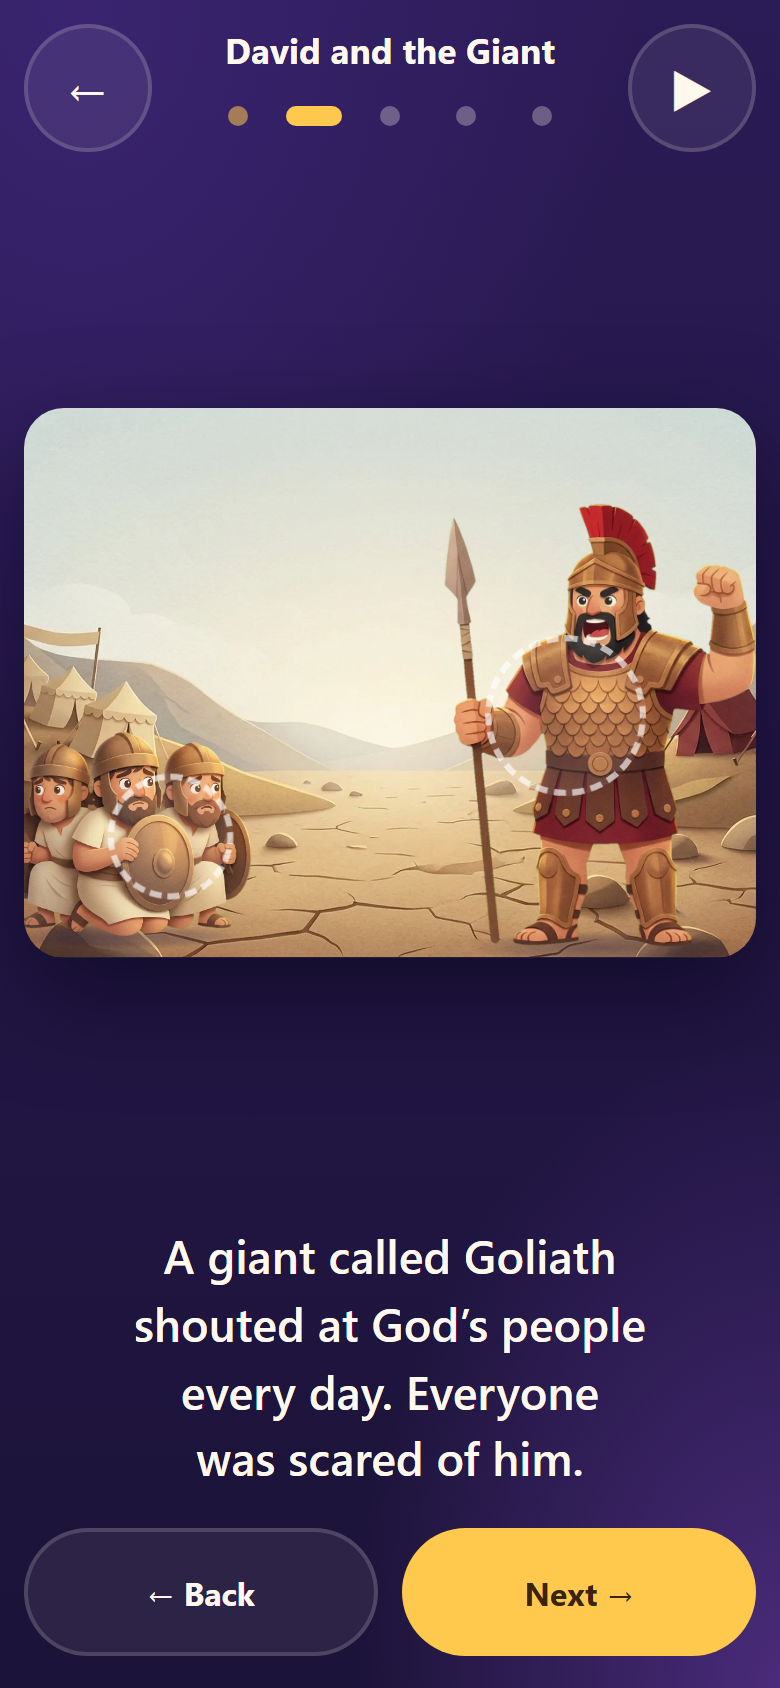
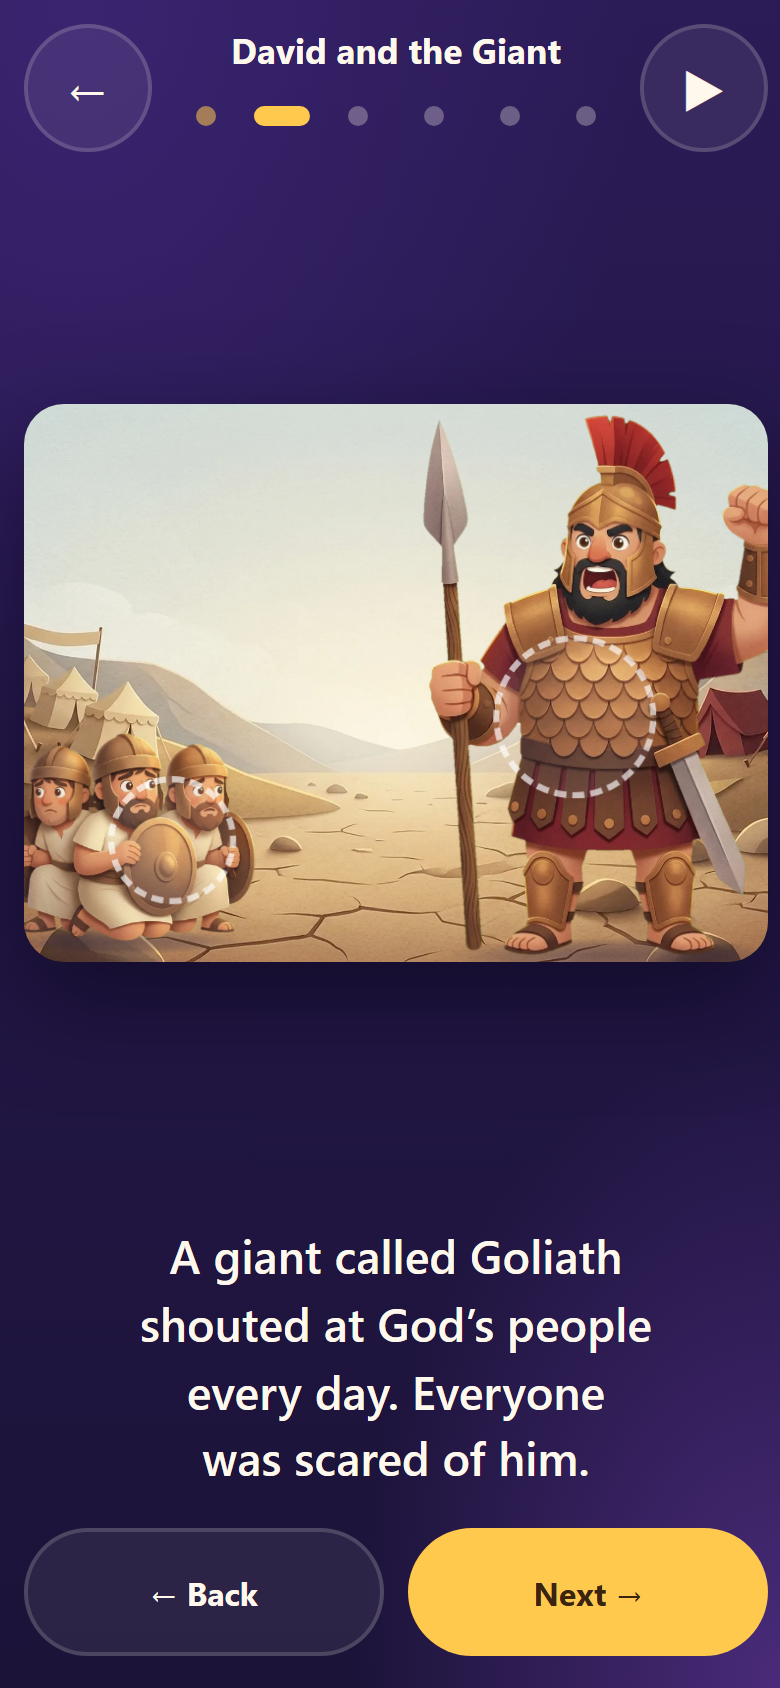
Restore blink, flipbook and tail-flick rules lost to a bad CSS edit; move the flock onto the meadow
A slice-and-replace on motion.css matched the old vector scene's stone-fly
keyframe first and cut everything up to the Calm block, so 8273eb5 shipped
without blinks, wing flaps or tail flicks. The stylesheet is restored from
d087bd1 with the strike beat placed over the old stone block. The shepherd's
sheep now graze the meadow instead of the stream, the flying stone is larger,
and the strike text matches the fallen pose.

diff --git a/src/scenes/david.tsx b/src/scenes/david.tsx
@@ -135,14 +135,16 @@ export function ShepherdBoy({ found }: SceneArtProps) {
       <Bird up={{ src: redbirdUp, w: L["redbird-up"].w, h: L["redbird-up"].h }} down={{ src: redbirdDown, w: L["redbird-down"].w, h: L["redbird-down"].h }} upEye={[185, 95]} downEye={[215, 50]} x={620} y={230} size={0.22} motion="a-flutter" delay={-3} />
       <Bird up={{ src: goldfinchUp, w: L["goldfinch-up"].w, h: L["goldfinch-up"].h }} down={{ src: goldfinchDown, w: L["goldfinch-down"].w, h: L["goldfinch-down"].h }} upEye={[188, 100]} downEye={[245, 45]} x={330} y={120} size={0.2} motion="a-flutter" delay={-7} flip />
 
-      {/* the flock, far to near */}
-      {sheep(880, 560, 0.16, true, "a-breathe-slow")}
-      {sheep(760, 570, 0.18, false, "a-breathe")}
-      {sheep(820, 612, 0.2, true, "a-breathe-slow")}
-      {sheep(640, 596, 0.24, false, "a-breathe")}
-      {sheep(560, 618, 0.22, true, "a-breathe-slow")}
-      <SoftShadow x={470} y={600} rx={60} ry={10} opacity={0.4} />
-      <Layer src={shepherdLamb} w={L.lamb.w} h={L.lamb.h} x={470} y={600} scale={0.3} className="a-breathe-slow" />
+      {/* the flock grazes the meadow between David and the stream, far to near */}
+      {sheep(600, 528, 0.13, true, "a-breathe-slow")}
+      {sheep(520, 536, 0.14, false, "a-breathe")}
+      {sheep(680, 548, 0.15, true, "a-breathe-slow")}
+      {sheep(430, 556, 0.16, false, "a-breathe")}
+      {sheep(590, 578, 0.19, true, "a-breathe-slow")}
+      {sheep(660, 604, 0.22, false, "a-breathe")}
+      {sheep(540, 616, 0.22, true, "a-breathe-slow")}
+      <SoftShadow x={450} y={604} rx={60} ry={10} opacity={0.4} />
+      <Layer src={shepherdLamb} w={L.lamb.w} h={L.lamb.h} x={450} y={604} scale={0.3} className="a-breathe-slow" />
 
       <SoftShadow x={300} y={596} rx={70} ry={12} opacity={0.4} />
       <Layer src={shepherdDavid} w={L["david-staff"].w} h={L["david-staff"].h} x={300} y={596} scale={0.38} className="a-breathe">
@@ -274,8 +276,9 @@ export function TheStrike({ found }: SceneArtProps) {
       {/* the stone: waits at the sling, flies to the forehead, vanishes; hidden at rest */}
       <g transform="translate(280 300)">
         <g className="a-stone-fly" opacity="0">
-          <circle r="9" fill="#9a9aa0" />
-          <circle r="7" fill="#c9c9cf" cx="-2" cy="-2" />
+          <circle r="14" fill="#5e5c66" />
+          <circle r="10" fill="#8f8d97" cx="-3" cy="-3" />
+          <circle r="4" fill="#c9c7d0" cx="-6" cy="-6" />
         </g>
       </g>
 

diff --git a/src/styles/motion.css b/src/styles/motion.css
@@ -421,6 +421,12 @@ svg [class*=" a-"] {
   transform-origin: 50% 100%;
 }
 
+/*
+ * One-shot story beat for the "strike" scene. Attributes hold the AFTER
+ * state (stone hidden, standing giant hidden, fallen giant shown) so Calm
+ * mode shows the outcome; the animations replay the beat once when motion
+ * is on: the stone waits, flies, the giant staggers, then the poses crossfade.
+ */
 @keyframes stone-fly {
   0%,
   55% {
@@ -479,6 +485,92 @@ svg [class*=" a-"] {
 }
 .a-land-in {
   animation: land-in 6s linear both;
+}
+
+/*
+ * Eyelids. Drawn with opacity="0" so eyes rest open; the lid only appears for
+ * a moment near the end of each cycle. Calm mode drops the animation and the
+ * attribute value keeps the eyes open.
+ */
+@keyframes blink {
+  0%,
+  93%,
+  100% {
+    opacity: 0;
+  }
+  95%,
+  97% {
+    opacity: 1;
+  }
+}
+.a-blink {
+  animation: blink 5.2s linear infinite;
+}
+
+/*
+ * Two-frame flipbook for raster wings: frame A is drawn with opacity="1" and
+ * frame B with opacity="0", so Calm mode shows a single clean pose. Playing,
+ * the two swap in hard steps.
+ */
+@keyframes frame-a {
+  0%,
+  49% {
+    opacity: 1;
+  }
+  50%,
+  100% {
+    opacity: 0;
+  }
+}
+@keyframes frame-b {
+  0%,
+  49% {
+    opacity: 0;
+  }
+  50%,
+  100% {
+    opacity: 1;
+  }
+}
+.a-frame-a {
+  animation: frame-a 0.36s steps(1, end) infinite;
+}
+.a-frame-b {
+  animation: frame-b 0.36s steps(1, end) infinite;
+}
+
+/*
+ * Tail flick. Still for most of a nine-second cycle, then two quick swishes.
+ * The tail is its own raster layer whose root sits at a corner of its box, so
+ * one class per root corner keeps the pivot in this file (rule 2). Calm mode
+ * drops the animation and the tail rests exactly where it was drawn.
+ */
+@keyframes tail-flick {
+  0%,
+  78%,
+  100% {
+    transform: rotate(0deg);
+  }
+  82% {
+    transform: rotate(-9deg);
+  }
+  86% {
+    transform: rotate(7deg);
+  }
+  90% {
+    transform: rotate(-6deg);
+  }
+  94% {
+    transform: rotate(3deg);
+  }
+}
+.a-tail-flick-tr {
+  animation: tail-flick 9s ease-in-out infinite;
+  transform-origin: 100% 0%;
+}
+.a-tail-flick-tl {
+  animation: tail-flick 9s ease-in-out infinite;
+  transform-origin: 0% 0%;
 }
 
 /*

diff --git a/src/data/stories/david.ts b/src/data/stories/david.ts
@@ -158,7 +158,7 @@ export const david: Story = {
       text: {
         little:
           "David let the stone fly. WHAM! It hit Goliath right on the forehead, and down he went.",
-        big: "Goliath laughed at the boy with the stick. David answered that he came in the name of the Lord. Then he ran toward the giant, whirled the sling, and let one stone go. It struck Goliath square on the forehead, and the champion of the Philistines fell face-down in the dust.",
+        big: "Goliath laughed at the boy with the stick. David answered that he came in the name of the Lord. Then he ran toward the giant, whirled the sling, and let one stone go. It struck Goliath square on the forehead, and the champion of the Philistines crashed to the ground and lay still.",
       },
       verse: "1 Samuel 17:49",
       hotspots: [

diff --git a/docs/evidence/2026-09-18-david-story-raster/cycles.md b/docs/evidence/2026-09-18-david-story-raster/cycles.md
@@ -9,3 +9,4 @@ Pass = characters match their sheets, scene reads as the same book, hotspots lan
 | 01 | all five | all P | story-sheet.png | first composition accepted as is |
 | 02 | user review round: shepherd, strike (new), victory, all pages | shepherd P, taunt P, volunteers P, stones P, strike P, victory F | story-sheet.png (pre-fix) | new: tree as trunk + swaying canopy, swaying tufts, three two-frame birds, flock of seven; Goliath re-sheeted bigger and fiercer and scaled 0.6; strike scene added (stone flies, giant staggers and collapses, Calm rests on the fallen pose); blinks on every face from find_eyes.py, verified with lids forced (lids-forced.png); victory: enlarged soldiers hid the fallen giant |
 | 03 | victory | P | story-sheet.png | soldiers behind, fallen Goliath in the foreground, David left |
+| 04 | shepherd, strike, motion.css | P | story-sheet.png, strike-stone.png, strike-stagger.png, strike-collapsed.png | user found birds not flapping: a string-sliced CSS edit had started at the vector scene's old `stone-fly` keyframe and wiped blink, flipbook and tail-flick rules (shipped in 8273eb5); restored from d087bd1 and re-applied. Flock moved off the stream onto the meadow; stone enlarged; strike text no longer says face-down |
